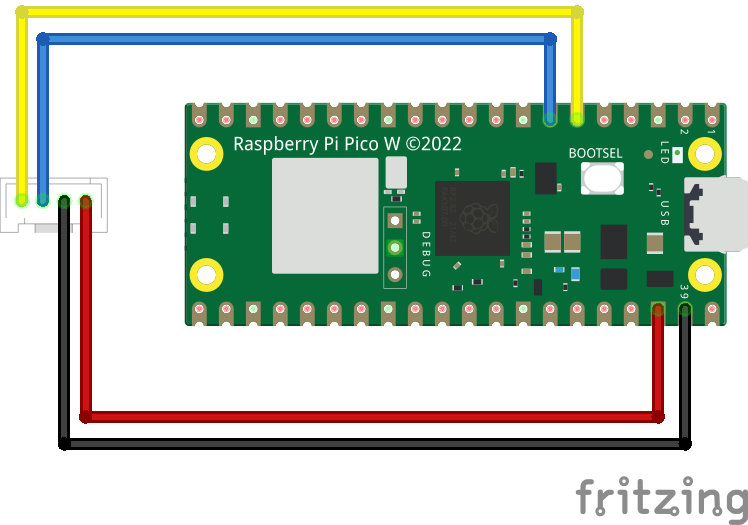
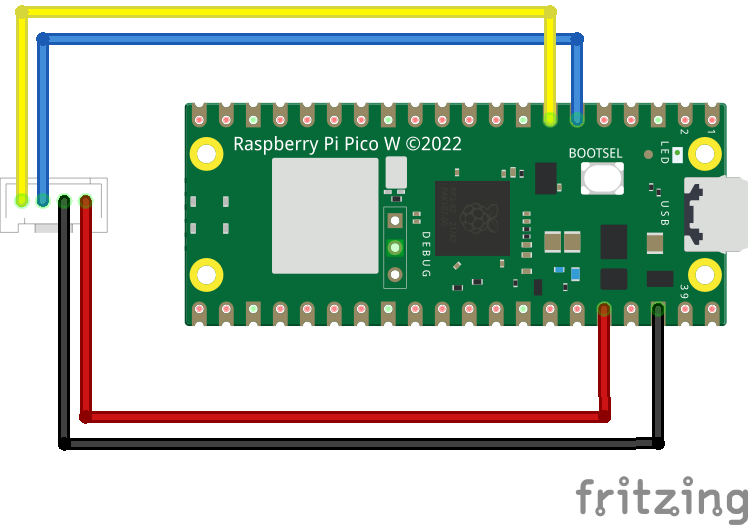
Fixed pin assignments

Changed region(s): [[0.7995, 0.579, 0.9225, 0.8838], [0.7072, 0.0, 0.7995, 0.2438]]

diff --git a/README.md b/README.md
@@ -44,7 +44,10 @@ the right pins.
 
 ## Wiring information
 
-Wiring up the device requires 4 jumpers, to connect VDD, GND, SDA and SCL. The example here uses I2C port 0, which is assigned to GPIO 4 (SDA) and 5 (SCL) in software. Power is supplied from the VSYS pin.
+Wiring up the device requires 4 jumpers, to connect VDD, GND, SDA and SCL. The 
+example here uses I2C port 0, which is assigned to GPIO4 (SDA, pin 6) and GPIO5
+(SCL, pin 7) in software. Power is supplied from 3V3(OUT) (pin 36), with ground
+attached to GND (pin 38).
 
 Follow the wiring scheme shown below:
 
